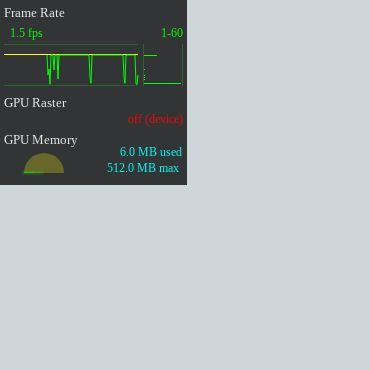
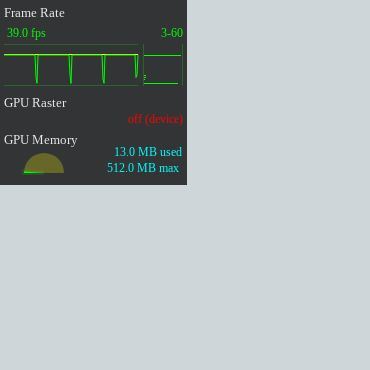
Better FPS example

diff --git a/fps.js b/fps.js
@@ -7,14 +7,14 @@ const puppeteer = require('puppeteer')
   const page = await browser.newPage()
   const protocol = await page.target().createCDPSession()
   await protocol.send('Overlay.setShowFPSCounter', { show: true })
-  await page.goto('http://www.know-it.nl')
+  await page.goto('http://www.know-it.nl/leden')
 
   // Do graphical regressions here by interacting with the page
   await protocol.send('Input.synthesizeScrollGesture', {
     x: 100,
     y: 100,
     yDistance: -400,
-    repeatCount: 3
+    repeatCount: 5
   })
 
   await page.screenshot({
